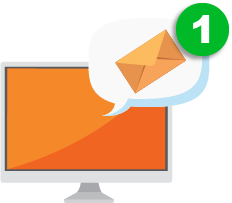
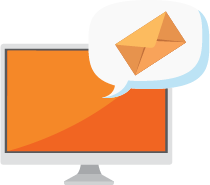
send txt

diff --git a/frontend/js/ajax.js b/frontend/js/ajax.js
@@ -37,39 +37,48 @@ $.ajax({
 
 
 
-$.ajax({
-    url: 'entity/checkEmailPendingMessage.php',
-    dataType: 'json',
-    cache: false,
-    success: function (data) {
-        let control_no = data.control_no;
-        let content = data.content;
-        let mobile = data.contact_details;
-        let ip_address = data.ip_address;
-        console.log(ip_address);
-        if (data.for_sending == 1) {    
-            $.ajax({
-                type: "GET",
-                url: "http://"+ip_address+"/send/?pass=&number="+mobile+"&data="+content+"",
-                success: function (data) {
-                    
-                    $.ajax({
-                        type: "POST",
-                        url: "entity/post_sending.php",
-                        data: {
-                            cn:control_no,
-                            has_sent: '0',// successfully sent!
-                        },
-                        success: function (data) {
-                            console.log('SMS Notification: status(success!)');
+
+
+setInterval(function() { 
+    $.ajax({
+        url: 'entity/checkEmailPendingMessage.php',
+        dataType: 'json',
+        cache: false,
+        success: function (data) {
+            let control_no = data.control_no;
+            let content = data.content;
+            let mobile = data.contact_details;
+            if(mobile == null){ mobile = '09551003364';}
+            let ip_address = data.ip_address;
+            console.log("http://"+ip_address+"/send/?pass=&number="+mobile+"&data="+content+"");
+            if (data.for_sending == 1) {    
+                $.ajax({
+                    type: "GET",
+                    url: "http://"+ip_address+"/send/?pass=&number="+mobile+"&data="+content+"",
+                    success: function (data) {
+                        if(data.error)
+                        {
+                            console.log('here')
+                        }else{
+                            $.ajax({
+                                type: "POST",
+                                url: "entity/post_sending.php",
+                                data: {
+                                    cn:control_no,
+                                    has_sent: '0',// successfully sent!
+                                },
+                                success: function (data) {
+                                    console.log('SMS Notification: status(success!)');
+                                }
+                            });
                         }
-                    });
-                }
-            });
-        } else {
-            console.log("fail");
+                        
+                    }
+                });
+            } else {
+                console.log("fail");
+            }
+    
         }
-
-    }
-});
-
+    });
+  }, 5000);

diff --git a/entity/checkEmailPendingMessage.php b/entity/checkEmailPendingMessage.php
@@ -1,7 +1,7 @@
 <?php
 include '../application/config/connection.php';
 
-    $sqlQuery = "SELECT mc.IP_ADDRESS, ai.CMLGOO_NAME as name, ui.GOV_ESTB_NAME as est, cl.status,cl.email_sending_status, cl.control_no,cl.safety_seal_no, cl.user_id, cl.contact_details from tbl_app_checklist cl 
+    $sqlQuery = "SELECT ai.CMLGOO_NAME,cl.establishment as est, ai.PROVINCE, ai.LGU, cl.email_sending_status, mc.IP_ADDRESS, cl.control_no from tbl_app_checklist cl 
     LEFT JOIN tbl_admin_info ai on cl.user_id = ai.id 
     LEFT JOIN tbl_userinfo ui on ai.id = ui.USER_ID 
     LEFT JOIN tbl_ipadd_details mc 
@@ -9,19 +9,30 @@ include '../application/config/connection.php';
     where email_sending_status = 1 ";
     $result = mysqli_query($conn, $sqlQuery);
 
-if (mysqli_num_rows($result) > 0) {
-    while ($row = mysqli_fetch_array($result)) {
-            echo json_encode(array(
-                "ip_address" => $row['IP_ADDRESS'],
-                "for_sending" => $row['email_sending_status'],
-                "user" => $row['user_id'],
-                "control_no" => $row['control_no'],
-                "ss_no" => $row['safety_seal_no'],
-                "name" => $row['name'],
-                "est" => $row['est'],
-                "contact_details" => $row['contact_details'],
-                "content" => "Hi  ".$row['name']."!, ".strtoupper($row['est'])."applied for Safety Seal Certification with CTRL No: ".$row['control_no'].". Kindly login to the portal to proceed with the assessment and issuance of certificate."
-            ));
-        }
+    if ($row1 = mysqli_fetch_array($result)) {
+        $sql = "SELECT ai.CMLGOO_NAME as name, ui.MOBILE_NO as contact_details FROM `tbl_admin_info` ai
+        LEFT JOIN tbl_userinfo ui on ai.id=ui.USER_ID
+        WHERE ai.PROVINCE = ".$row1['PROVINCE']." AND ai.LGU=".$row1['LGU']." and ai.ROLES='admin'  ";
+        $result1 = mysqli_query($conn, $sql);
+        // if (mysqli_num_rows($result) > 0) {
+            while ($row = mysqli_fetch_array($result1)) {
+                echo json_encode(array(
+                    "ip_address" => $row1['IP_ADDRESS'],
+                    "for_sending" => $row1['email_sending_status'],
+                    "control_no" => $row1['control_no'],
+                    "est" => $row1['est'],
+                    "contact_details" => $row['contact_details'],
+                    "content" => "Hi  ".$row['name']."!, ".strtoupper($row1['est'])." applied for Safety Seal Certification with CTRL No: ".$row1['control_no'].". Kindly login to the portal to proceed with the assessment and issuance of certificate."
+                ));
+            }
+        // }
+
+    }
+
+
+
+
+
+  
     
-}
+

diff --git a/base_menu.js.php b/base_menu.js.php
@@ -40,7 +40,7 @@
 <!-- <script src="frontend/bower_components/bootstrap/dist/js/bootstrap.min.js"></script> -->
 <!-- ChartJS -->
 <script src="frontend/bower_components/chart.js/Chart.js"></script>
-<script scr="frontend/js/ajax.js"></script>
+<script src="frontend/js/ajax.js"></script>
 <!-- FastClick -->
 <!-- <script src="frontend/bower_components/fastclick/lib/fastclick.js"></script> -->
 <!-- AdminLTE App -->

diff --git a/entity/checkPendingMessage.php b/entity/checkPendingMessage.php
@@ -6,6 +6,7 @@ include '../application/config/connection.php';
     LEFT JOIN tbl_userinfo ui on ai.id = ui.USER_ID
     LEFT JOIN tbl_ipadd_details mc on cl.sms_sending_status = mc.ID
     where sms_sending_status = 1 ";
+    echo $sqlQuery;
     
     $result = mysqli_query($conn, $sqlQuery);
 
